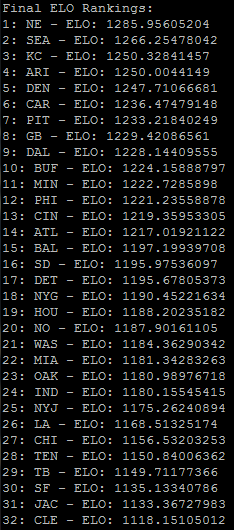
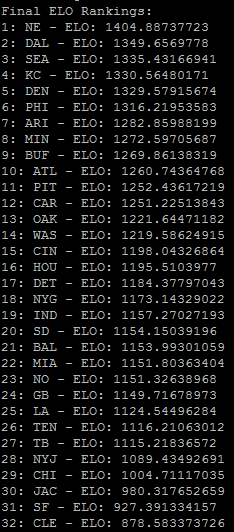
update readme to include streaks + update screenshots

diff --git a/README.md b/README.md
@@ -29,21 +29,23 @@ The data used is from the [nflgame](https://github.com/BurntSushi/nflgame) repos
 
 ## ELO System
 
-The ELO System used is identical to that found on [Wikipedia](https://en.wikipedia.org/wiki/Elo_rating_system), with each team initialized at 1200 ELO.  Through each game, an expected winning percentage is calculated, and whether or not a team wins affects how the elo is adjusted.  Over the course of hundreds of games, the ELO will tend towards the theoretical "rank" of each team - better teams will bubble to the top, and worse teams will sink to the bottom.  The system is normalized such that if Team A has 400 more ELO than Team B, then Team A will have 10 times the probability of beating Team B.  These parameters can be varied and can produce different results - vary them and see which works best!
+The ELO System used is identical to that found on [Wikipedia](https://en.wikipedia.org/wiki/Elo_rating_system), with each team initialized at 1200 ELO.  Through each game, an expected winning percentage is calculated, and whether or not a team wins affects how the elo is adjusted.  Over the course of hundreds of games, the ELO will tend towards the theoretical "rank" of each team - better teams will bubble to the top, and worse teams will sink to the bottom.  The system is normalized such that if Team A has 200 more ELO than Team B, then Team A will have 4 times the probability of beating Team B.  These parameters can be varied and can produce different results - vary them and see which works best!
+
+The system also takes into account the winning and losing streaks of teams - teams on a large winning streak that win again will gain more ELO, while teams who have lost many games in a row will lose more and more.  Both increase logistically, asymptotically approaching a maximum multiplier as to ensure that teams on large winning streaks do not overwhelm the rest of the teams in the standings.
 
 The ELO of each team is "pushed" towards the initial ELO at the end of every season, as to ensure that teams who dominate the season before are not too far ahead of others in a new season, to account for roster, coaching, or system changes.  The ELO-shifting factor is also set as the difference between the winning team's score and the losing team's score, so that larger margins of victory will result in larger gains in ELO, and vice versa.  Teams in a bye week have their ELO unchanged.
 
-Here is a screenshot of the ELO rankings generated, as of Week 9 of the 2016 NFL Season.
+Here is a screenshot of the ELO rankings generated, as of Week 10 of the 2016 NFL Season.
 
-![Week 9, 2016](/screenshots/Screenshot_1.png?raw=true)
+![Week 10, 2016](/screenshots/Screenshot_1.png?raw=true)
 
 ## Prediction
 
 The prediction system simply uses the expected winning percentage given by the ELO rating.  The predictions are then ordered by the "most confident" to "least confident", using the difference in percentage between the team projected to win and the team projected to lose.  They are also presented in color(!) to make it more visually appealing.
 
-Here is a screenshot of the predictions made for Week 10 using data through Week 9 of the 2016 NFL Season.
+Here is a screenshot of the predictions made for Week 11 using data through Week 10 of the 2016 NFL Season.
 
-![Week 9, 2016](/screenshots/Screenshot_2.png?raw=true)
+![Week 10, 2016](/screenshots/Screenshot_2.png?raw=true)
 
 ## Further Work
 
